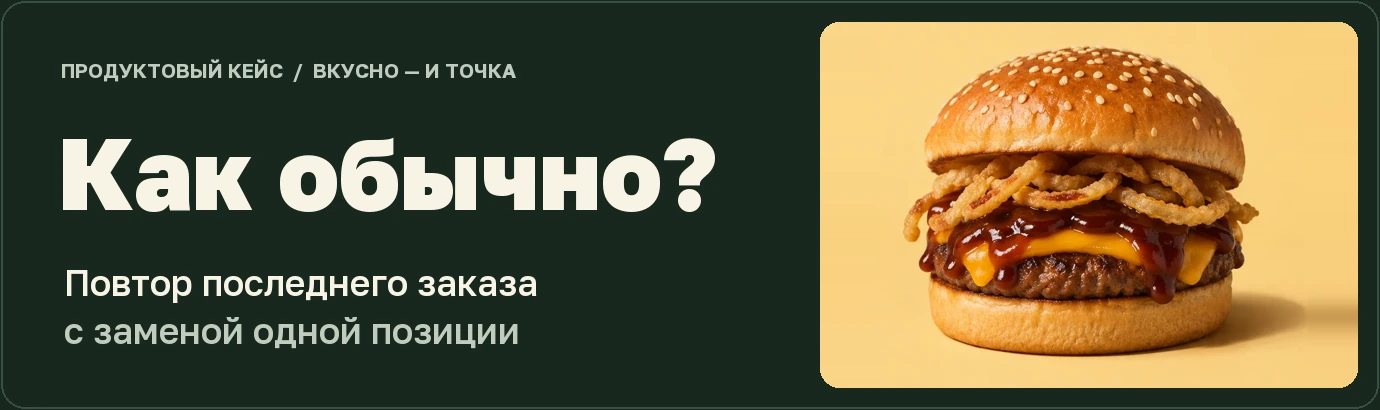
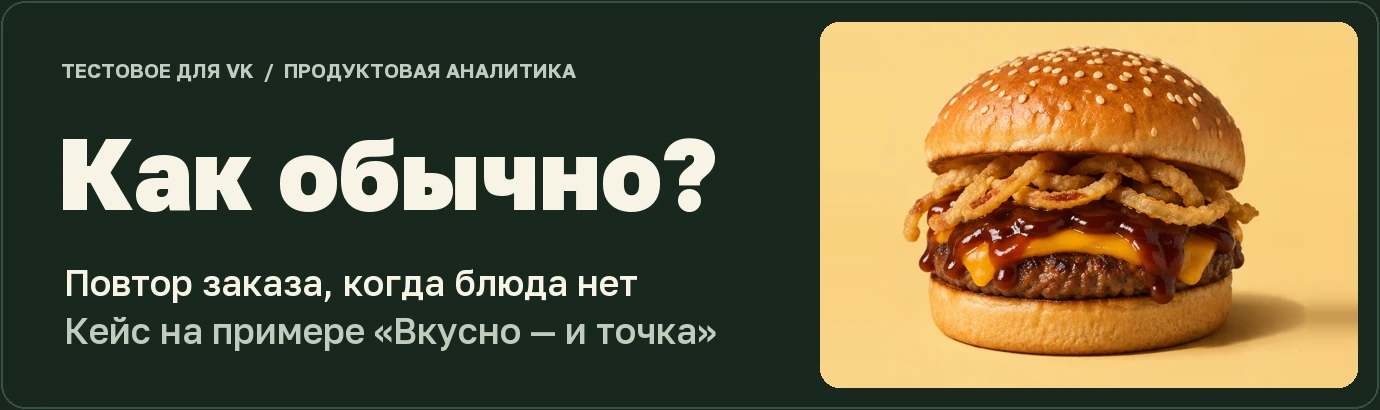
Frame submission for VK product analytics assignment

Changed region(s): [[0.0312, 0.761, 0.5297, 0.8488], [0.0312, 0.1463, 0.4362, 0.2049], [0.1246, 0.6439, 0.4674, 0.7317]]

diff --git a/README.md b/README.md
@@ -2,10 +2,12 @@
 
 <picture>
   <source media="(prefers-color-scheme: dark)" srcset="docs/readme/hero-dark.webp">
-  <img src="docs/readme/hero-light.webp" width="100%" alt="Как обычно? Продуктовый кейс для «Вкусно — и точка». Повтор последнего заказа с заменой одной позиции.">
+  <img src="docs/readme/hero-light.webp" width="100%" alt="Как обычно? Тестовое задание для VK по продуктовой аналитике. Восстановление повторного заказа в «Вкусно — и точка».">
 </picture>
 
-Гость повторяет знакомый заказ, но в выбранном ресторане одного блюда уже нет. **«Как обычно?»** показывает, что осталось в корзине, предлагает доступную замену и сразу показывает итоговую цену. Гость может восстановить заказ одним нажатием или продолжить с доступными блюдами.
+**Тестовое задание для VK · продуктовая аналитика**
+
+Гость «Вкусно — и точка» повторяет знакомый заказ, но в выбранном ресторане одного блюда уже нет. **«Как обычно?»** показывает, что осталось в корзине, предлагает доступную замену и сразу показывает итоговую цену. Гость может восстановить заказ одним нажатием или продолжить с доступными блюдами.
 
 **[Открыть сценарий восстановления ↗](https://worker4556.github.io/kak-obychno/?scenario=recovery)** · **[Обычный повтор ↗](https://worker4556.github.io/kak-obychno/)** · **[Разбор записи](docs/research.md#recording)** · **[План эксперимента](docs/research.md#experiment)**
 
@@ -78,6 +80,6 @@ python3 -m http.server 8000
 - [`analysis/experiment_size.py`](analysis/experiment_size.py) — расчёт выборки.
 - [`analysis/funnel.sql`](analysis/funnel.sql) — расчёт метрик по событиям, [проверенный на синтетических данных](analysis/verify_funnel.py).
 
-Демо использует тестовые цены, меню и историю. Подтверждение заказа работает локально. На сборку, доработку и публикацию прототипа ушло **около 15–20 минут**. Фотографии сделаны с помощью ImageGen, шрифт Golos Text поставляется с [лицензией OFL](fonts/OFL.txt).
+Демо использует тестовые цены, меню и историю. Подтверждение заказа работает локально. На сборку и проверку прототипа ушло **около 20–25 минут**. Фотографии сделаны с помощью ImageGen, шрифт Golos Text поставляется с [лицензией OFL](fonts/OFL.txt).
 
 [К началу ↑](#top)
